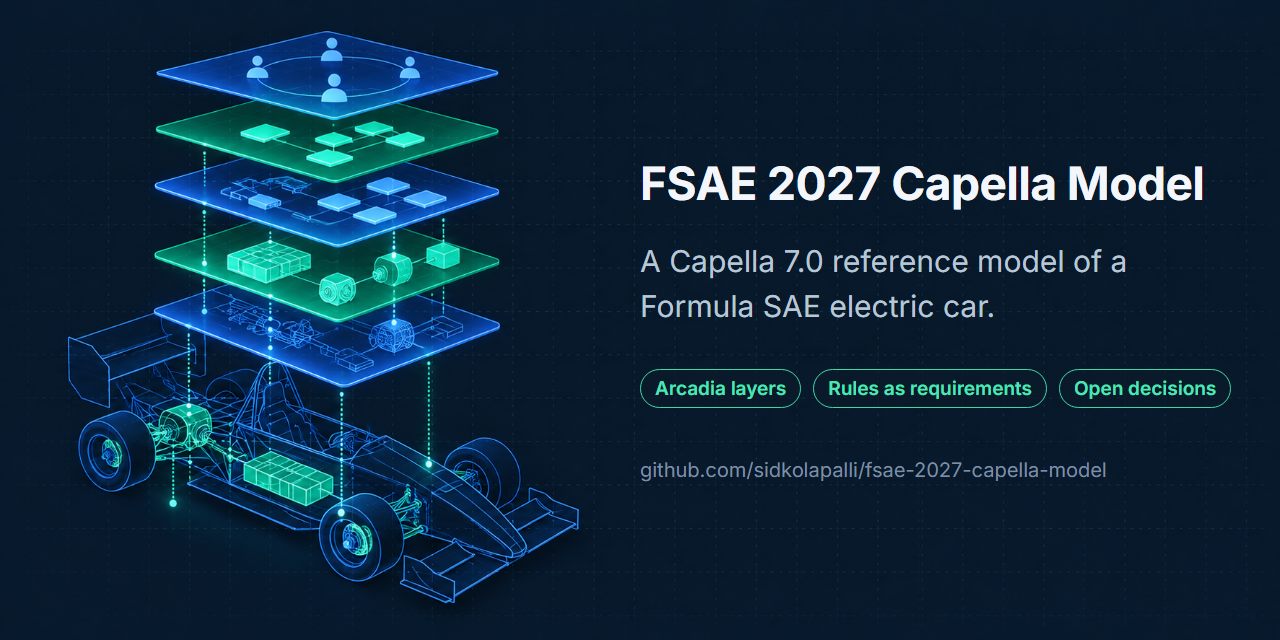
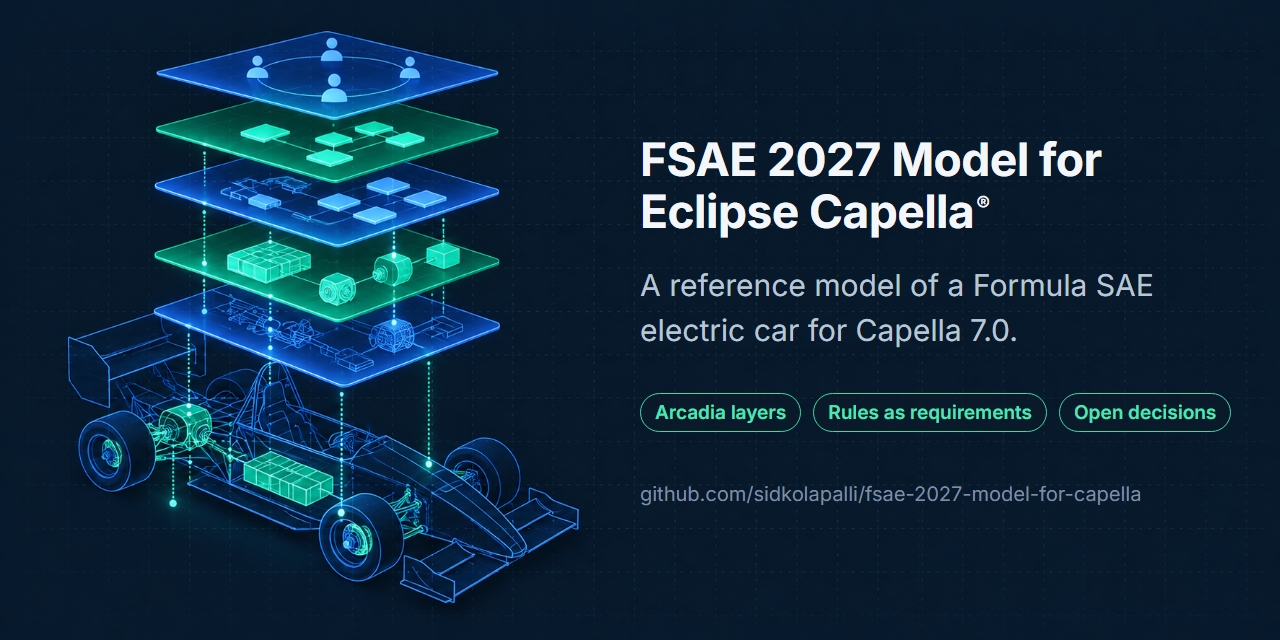
Rename to FSAE 2027 Model for Capella (Eclipse trademark policy) (#13)
## What and why

Follows the Eclipse Foundation Trademark Usage Policy (v1.1.1,
https://www.eclipse.org/legal/logo-guidelines/): an Eclipse project name
may not be part of a product name except as "<product> for <project>".

- The model is now **FSAE 2027 Model for Capella**; the toolkit is
**Agent Toolkit for Capella**.
- The repo is renamed to `fsae-2027-model-for-capella` (old URLs
redirect); the toolkit repo to `agent-toolkit-for-capella`. Links, the
clone URL, CITATION.cff and the security link are updated.
- Each page's first and most prominent mention reads "Eclipse Capella®",
including the generated submission pages (generator updated with them).
- The README has a Trademarks section with the Eclipse attribution
sentence, the SAE trademark note and a not-affiliated line.
- The social preview image shows the new name and URL.

No model files change.

## Evidence

- [ ] Changed the scripts in `acceptance/`, not only the model (only the
report generator's legend text; `acceptance/submissions` unit tests
pass, 20 OK)
- [ ] Verifiers and save/reopen check (`90`) pass; native validation
compared with the previous export (`91`) (not applicable: no model
change)
- [x] No rulebook text added
- [ ] Model files changed: `model/SHA256SUMS` regenerated, README
Versions section updated, and the change noted for the next version tag
(not applicable: no model files changed)

Changed region(s): [[0.5, 0.2188, 0.9375, 0.5312], [0.5, 0.5938, 0.9688, 0.6562], [0.5, 0.7188, 0.9062, 0.7812]]

diff --git a/acceptance/submissions/make_reports.py b/acceptance/submissions/make_reports.py
@@ -27,7 +27,7 @@ LEGEND = [
     "element or obligation stands for the item but holds no team value yet; items that only restate a rule value "
     "are `partial` too. `absent` means the model has nothing for the item, or cannot hold it (photos, raw test "
     "data, receipts, records).",
-    "- **Source**: where the value comes from: `model` (this Capella model), `cad` (CAD and drawings), `analysis` "
+    "- **Source**: where the value comes from: `model` (this Eclipse Capella® model), `cad` (CAD and drawings), `analysis` "
     "(calculations), `test` (physical tests), `supplier` (datasheets and purchase records), `admin` (team "
     "administration).",
     "- **Status**: the team's progress. Conditional rows (aluminum, composite, monocoque, custom IA, digital "

diff --git a/README.md b/README.md
@@ -1,11 +1,11 @@
 <div align="center">
 
-# FSAE 2027 Capella model
+# FSAE 2027 Model for Eclipse Capella®
 
 A Capella 7.0 reference model of a Formula SAE 2027 electric car: rules as requirements, a candidate
 architecture across all five Arcadia perspectives, and the open decisions left to make.
 
-<a href="https://github.com/sidkolapalli/fsae-2027-capella-model/actions/workflows/test.yml"><img alt="CI" src="https://github.com/sidkolapalli/fsae-2027-capella-model/actions/workflows/test.yml/badge.svg"></a>
+<a href="https://github.com/sidkolapalli/fsae-2027-model-for-capella/actions/workflows/test.yml"><img alt="CI" src="https://github.com/sidkolapalli/fsae-2027-model-for-capella/actions/workflows/test.yml/badge.svg"></a>
 <a href="https://eclipse.dev/capella/"><img alt="Capella 7.0" src="https://img.shields.io/badge/Capella-7.0-blue"></a>
 <a href="https://github.com/eclipse-capella/capella-requirements-vp/releases/tag/v0.14.0"><img alt="Requirements Viewpoint 0.14.0" src="https://img.shields.io/badge/Requirements%20Viewpoint-0.14.0-blue"></a>
 <a href="LICENSE-CC-BY-4.0"><img alt="Model licence CC BY 4.0" src="https://img.shields.io/badge/model-CC%20BY%204.0-green"></a>
@@ -28,7 +28,7 @@ architecture across all five Arcadia perspectives, and the open decisions left t
 A [Capella](https://eclipse.dev/capella/) 7.0 model of a Formula SAE 2027 electric car, built with the Arcadia
 method (a way to describe a system in layers, from what its users need down to its parts) from the public 2027
 rulebook, and the scripts that built it. It is also the benchmark model of the
-[Capella Agent Toolkit](https://github.com/sidkolapalli/capella-agent-toolkit)'s evaluation harness.
+[Agent Toolkit for Capella](https://github.com/sidkolapalli/agent-toolkit-for-capella)'s evaluation harness.
 
 It is meant as a reference platform and a head start. A Formula SAE team can use it as a guideline that mimics a
 real vehicle development platform: rules turned into requirements, an architecture across all perspectives,
@@ -151,12 +151,12 @@ All twelve diagrams, with what each shows, are in [docs/DIAGRAMS.md](docs/DIAGRA
 
 ### Learn it faster: ask an AI agent
 
-With the [Capella Agent Toolkit](https://github.com/sidkolapalli/capella-agent-toolkit), an AI agent such as
+With the [Agent Toolkit for Capella](https://github.com/sidkolapalli/agent-toolkit-for-capella), an AI agent such as
 Claude Code, Codex, Cursor, GitHub Copilot or Gemini CLI can read the model open in Capella and answer questions
 about it. It changes nothing unless you approve the exact edit in Capella. The agent can be wrong: check each answer
 against the model. To find an element name it cites, type the name into the filter box at the top of the Project
 Explorer. The toolkit's
-[install guide](https://github.com/sidkolapalli/capella-agent-toolkit/blob/main/docs/INSTALL.md) shows how to
+[install guide](https://github.com/sidkolapalli/agent-toolkit-for-capella/blob/main/docs/INSTALL.md) shows how to
 connect each agent, and [LEARN-WITH-AI.md](docs/LEARN-WITH-AI.md) has the setup steps and questions to ask.
 
 ## Open the model
@@ -166,7 +166,7 @@ connect each agent, and [LEARN-WITH-AI.md](docs/LEARN-WITH-AI.md) has the setup 
    for Capella 7. The release page offers a dropins archive and an update site; the update site needs three
    dependency update sites added first, which the page lists.
 2. Clone this repository, or download it from the
-   [releases page](https://github.com/sidkolapalli/fsae-2027-capella-model/releases). The latest release suits
+   [releases page](https://github.com/sidkolapalli/fsae-2027-model-for-capella/releases). The latest release suits
    exploring the model; [Versions](#versions) lists the earlier releases.
 3. Import [`model/FSAE-2027-Electric-Arcadia`](model/FSAE-2027-Electric-Arcadia) into your workspace as an
    existing project, with **File > Import...** and the existing-project import under **General**. Choose to copy
@@ -181,8 +181,8 @@ connect each agent, and [LEARN-WITH-AI.md](docs/LEARN-WITH-AI.md) has the setup 
 
 | Tag | What it holds | Use it for |
 |---|---|---|
[1 lines of base64/hex data omitted]
-| [`v1.1.0`](https://github.com/sidkolapalli/fsae-2027-capella-model/tree/v1.1.0) | The same files as plain project files, byte-identical to the archive contents | The original benchmark version, without unzipping |
[1 lines of base64/hex data omitted]
+| [`v1.1.0`](https://github.com/sidkolapalli/fsae-2027-model-for-capella/tree/v1.1.0) | The same files as plain project files, byte-identical to the archive contents | The original benchmark version, without unzipping |
 | `v1.2.0` | The same semantic model, with all 12 diagrams laid out | Reading and extending the model |
 
 The semantic model is the same in all three: the `.capella` file's SHA-256 is
@@ -194,8 +194,8 @@ the benchmark, so the release that ships it gets a new version tag.
 
 ## How it was built
 
-The scripts in [`acceptance/`](acceptance) built the model in a disposable Capella project through the Capella
-Agent Toolkit plug-in's dev server, in the order [`acceptance/README.md`](acceptance/README.md) gives.
+The scripts in [`acceptance/`](acceptance) built the model in a disposable Capella project through the Agent
+Toolkit for Capella plug-in's dev server, in the order [`acceptance/README.md`](acceptance/README.md) gives.
 [`acceptance/rules`](acceptance/rules) pins the rule inventory and [`acceptance/safety`](acceptance/safety) holds
 the three slices, each with its own README. [`acceptance/submissions`](acceptance/submissions) adds the
 competition-submission layer on top of them. The v1.2.0 diagram layout was applied afterwards and no script
@@ -204,9 +204,9 @@ reproduces it; [docs/DIAGRAMS.md](docs/DIAGRAMS.md#about-the-layout-and-the-imag
 ## Using it as a benchmark
 
 The task sets, harness and grader live in the toolkit's
-[`test-models/evals`](https://github.com/sidkolapalli/capella-agent-toolkit/tree/develop/test-models/evals).
+[`test-models/evals`](https://github.com/sidkolapalli/agent-toolkit-for-capella/tree/develop/test-models/evals).
 
-1. Clone this repository next to the toolkit and keep the folder name `fsae-2027-capella-model`. Or set
+1. Clone this repository next to the toolkit and keep the folder name `fsae-2027-model-for-capella`. Or set
    `EVAL_MODEL` to its `model/FSAE-2027-Electric-Arcadia` folder.
 2. To reproduce results recorded against the original benchmark version, check out `v1.1.0` (`git checkout v1.1.0`). The default branch
    has the re-laid-out diagrams of `v1.2.0`.
@@ -218,10 +218,14 @@ The task sets, harness and grader live in the toolkit's
 | The model in `model/` and the JSON data in `acceptance/` | [CC BY 4.0](LICENSE-CC-BY-4.0) |
 | The scripts in `acceptance/` (`.groovy`, `.py`) | [EPL-2.0](LICENSE) |
 
-To attribute the model, cite "FSAE 2027 Capella model, https://github.com/sidkolapalli/fsae-2027-capella-model".
+To attribute the model, cite "FSAE 2027 Model for Capella, https://github.com/sidkolapalli/fsae-2027-model-for-capella".
 
 The rule identifiers, page numbers and headings come from the Formula SAE Rules 2027, which are copyright SAE
 International. They are included only to trace each requirement to the rulebook and are not covered by the
 licences above; the rule text itself is not included, and the safety obligations are paraphrased. Get the rulebook
-from [fsaeonline.com](https://www.fsaeonline.com). This project is not affiliated with or endorsed by SAE
-International; Formula SAE is a trademark of SAE International.
+from [fsaeonline.com](https://www.fsaeonline.com).
+
+## Trademarks
+
+Eclipse, Eclipse Capella and Capella are trademarks of Eclipse Foundation AISBL. Formula SAE is a trademark of SAE
+International. This project is not affiliated with or endorsed by the Eclipse Foundation or SAE International.

diff --git a/docs/MODEL-GUIDE.md b/docs/MODEL-GUIDE.md
@@ -1,10 +1,10 @@
 # Model guide
 
-This guide describes what is in the FSAE 2027 Capella model, how it is organized, and how to use it. It is for
-systems engineers who are new to this model and possibly new to Capella. To install Capella and open the model,
-follow [GETTING-STARTED.md](GETTING-STARTED.md). [CONTRIBUTING.md](../CONTRIBUTING.md) covers changes proposed back to this
-repository, which are built by scripts. A team developing its own fork edits the model in Capella, as
-[Using the model as a development platform](#using-the-model-as-a-development-platform) describes.
+This guide describes what is in the FSAE 2027 Model for Eclipse Capella®, how it is organized, and how to use it.
+It is for systems engineers who are new to this model and possibly new to Capella. To install Capella and open the
+model, follow [GETTING-STARTED.md](GETTING-STARTED.md). [CONTRIBUTING.md](../CONTRIBUTING.md) covers changes
+proposed back to this repository, which are built by scripts. A team developing its own fork edits the model in
+Capella, as [Using the model as a development platform](#using-the-model-as-a-development-platform) describes.
 
 The model is a reference platform and a head start, not a finished car. It turns the rulebook into native
 requirements, lays out a candidate architecture across all five Arcadia perspectives, keeps the major design
@@ -307,7 +307,7 @@ work in order. Each step names the model elements it changes.
    `verification_status=passed` on the requirement.
 6. **Run validation** on the model root, as [GETTING-STARTED.md](GETTING-STARTED.md#7-run-validation) describes. Compare the result with the baseline
    of zero errors and 517 warnings; that baseline applies only to validation of the whole model root with the
-   default rule categories. The Groovy verifiers in `acceptance/` need the Capella Agent Toolkit dev server;
+   default rule categories. The Groovy verifiers in `acceptance/` need the Agent Toolkit for Capella dev server;
    [CONTRIBUTING.md](../CONTRIBUTING.md) lists them. Save, close and reopen the model, then validate again.
 
    If you imported the project with copy-into-workspace, as GETTING-STARTED.md says, your edits are saved in the workspace
@@ -321,14 +321,14 @@ decisions and justified validation warnings, are not met.
 
 ## Using the model as a benchmark for agent skills
 
-The model is also the benchmark of the [Capella Agent Toolkit](https://github.com/sidkolapalli/capella-agent-toolkit).
+The model is also the benchmark of the [Agent Toolkit for Capella](https://github.com/sidkolapalli/agent-toolkit-for-capella).
 The open decisions, TBD items and unmodeled records are realistic engineering tasks. Giving them to an AI agent shows
 where its modeling skills hold and where they fail: tracing a requirement to the right element, decomposing a
 function the Arcadia way, keeping realizations consistent across perspectives, and refusing to invent a value the
 model marks as unresolved.
 
 The task sets, harness and grader are in the toolkit's
-[`test-models/evals`](https://github.com/sidkolapalli/capella-agent-toolkit/tree/develop/test-models/evals). To set it
+[`test-models/evals`](https://github.com/sidkolapalli/agent-toolkit-for-capella/tree/develop/test-models/evals). To set it
 up, see [Using it as a benchmark](../README.md#using-it-as-a-benchmark) in the README. The harness starts Capella with
 `-Xms512m -Xmx3g -Xss4m` for this model. A change to the model changes the benchmark, so results stay tied to the
 version tag they used (see [Versions](../README.md#versions)).

diff --git a/docs/LEARN-WITH-AI.md b/docs/LEARN-WITH-AI.md
@@ -1,7 +1,7 @@
 # Learn the model with an AI agent
 
-This page shows how to use an AI agent to learn the FSAE 2027 Capella model by asking it questions. It is for
-Formula SAE students, including those who are new to Capella and to MBSE (model-based systems engineering).
+This page shows how to use an AI agent to learn the FSAE 2027 Model for Eclipse Capella® by asking it questions. It
+is for Formula SAE students, including those who are new to Capella and to MBSE (model-based systems engineering).
 
 ## Why use an agent
 
@@ -21,8 +21,8 @@ Two things to keep in mind from the start:
 | Item | Where to get it |
 |---|---|
 | Capella 7.0, Requirements Viewpoint 0.14.0 and this model, imported and open | [GETTING-STARTED.md](GETTING-STARTED.md), steps 1 to 5 |
-| The Capella Agent Toolkit plug-in, installed in Capella | The toolkit [README quick start](https://github.com/sidkolapalli/capella-agent-toolkit#quick-start) |
-| An AI agent that supports MCP, such as Claude Code, Codex, Cursor, GitHub Copilot or Gemini CLI | The toolkit [install guide](https://github.com/sidkolapalli/capella-agent-toolkit/blob/main/docs/INSTALL.md), one section per agent |
+| The Agent Toolkit for Capella plug-in, installed in Capella | The toolkit [README quick start](https://github.com/sidkolapalli/agent-toolkit-for-capella#quick-start) |
+| An AI agent that supports MCP, such as Claude Code, Codex, Cursor, GitHub Copilot or Gemini CLI | The toolkit [install guide](https://github.com/sidkolapalli/agent-toolkit-for-capella/blob/main/docs/INSTALL.md), one section per agent |
 | An account for that agent. Most need a sign-in, and many need a subscription or an API key; some have free or student tiers | The agent's own website. Check this before you start |
 
 The plug-in is built from source, which needs a Java 17 JDK, Maven and Python 3, as the quick start describes.
@@ -35,7 +35,7 @@ agent sends to its own model provider.
 
 0. Set a fixed token before you open Capella. The token is a password that Capella's server checks on every
    request. Follow the
-   [Set a fixed MCP token](https://github.com/sidkolapalli/capella-agent-toolkit/blob/main/docs/INSTALL.md#set-a-fixed-mcp-token)
+   [Set a fixed MCP token](https://github.com/sidkolapalli/agent-toolkit-for-capella/blob/main/docs/INSTALL.md#set-a-fixed-mcp-token)
    section of the toolkit install guide, so the connection still works after you restart Capella. Then close
    Capella and your terminal, and reopen both: programs that are already running do not see the new token.
 1. Open the model in Capella, as [GETTING-STARTED.md](GETTING-STARTED.md#5-import-the-project-and-open-it)
@@ -43,7 +43,7 @@ agent sends to its own model provider.
 2. Start the server: **Window > Show View > Other > AI Dev Server > Start**. It listens on port 8765, on your
    computer only.
 3. Connect your agent and install the toolkit's skills, following the section for your agent in
-   [INSTALL.md](https://github.com/sidkolapalli/capella-agent-toolkit/blob/main/docs/INSTALL.md). A skill is a
+   [INSTALL.md](https://github.com/sidkolapalli/agent-toolkit-for-capella/blob/main/docs/INSTALL.md). A skill is a
    packaged set of instructions the agent loads when you run it by name.
 4. Run the `capella-setup` skill to check the connection: `/capella-setup` in most agents, `$capella-setup` in
    Codex. It is done when the agent names the open project, `FSAE-2027-Electric-Arcadia`, and its layers.

diff --git a/docs/GETTING-STARTED.md b/docs/GETTING-STARTED.md
@@ -1,7 +1,8 @@
 # Getting started
 
-This guide takes you from nothing to exploring the FSAE 2027 Capella model. It assumes you know systems
-engineering but may be new to Capella. For how the model is organized, see [MODEL-GUIDE.md](MODEL-GUIDE.md).
+This guide takes you from nothing to exploring the FSAE 2027 Model for Eclipse Capella®. It assumes you know
+systems engineering but may be new to Capella. For how the model is organized, see
+[MODEL-GUIDE.md](MODEL-GUIDE.md).
 
 ## What this model is, and what it is not
 
@@ -17,8 +18,8 @@ It is not a finished or compliant car:
 - many records are still marked as needing review or as not modeled.
 
 The open decisions and unfinished items are also realistic tasks. The
-[Capella Agent Toolkit](https://github.com/sidkolapalli/capella-agent-toolkit) uses them to find gaps in AI agent
-skills.
+[Agent Toolkit for Capella](https://github.com/sidkolapalli/agent-toolkit-for-capella) uses them to find gaps in AI
+agent skills.
 
 The model carries rule identifiers, page numbers and headings from the Formula SAE Rules 2027, but not the rule
 text. Get the rulebook from [fsaeonline.com](https://www.fsaeonline.com). This project is not affiliated with or
@@ -119,7 +120,7 @@ You do not need to activate the viewpoint in this model. It is already reference
 
 | You want to | Use |
 |---|---|
-| Explore the model or start from it | The latest release on the [releases page](https://github.com/sidkolapalli/fsae-2027-capella-model/releases). Later releases lay out the diagrams; the semantic `.capella` file is the same as in v1.1.0. |
+| Explore the model or start from it | The latest release on the [releases page](https://github.com/sidkolapalli/fsae-2027-model-for-capella/releases). Later releases lay out the diagrams; the semantic `.capella` file is the same as in v1.1.0. |
 | Reproduce benchmark results recorded against the original version | `v1.0.0` (stored as `model/FSAE-2027-Electric-Arcadia.zip`) or `v1.1.0` (the same model as plain files). |
 
 ### Download it
@@ -127,8 +128,8 @@ You do not need to activate the viewpoint in this model. It is already reference
 With Git:
 
 ```bash
-git clone https://github.com/sidkolapalli/fsae-2027-capella-model.git
-cd fsae-2027-capella-model
+git clone https://github.com/sidkolapalli/fsae-2027-model-for-capella.git
+cd fsae-2027-model-for-capella
 git checkout <tag>   # for example the latest tag on the releases page, or v1.1.0
 ```
 
@@ -296,8 +297,8 @@ or the design is verified.
 
 ## 8. Use it with an AI agent
 
-The [Capella Agent Toolkit](https://github.com/sidkolapalli/capella-agent-toolkit) is a Capella 7 plug-in with an
-MCP server. Any MCP client, such as Claude Code or Codex, can then read and change the model open in Capella, and a
+The [Agent Toolkit for Capella](https://github.com/sidkolapalli/agent-toolkit-for-capella) is a Capella 7 plug-in with
+an MCP server. Any MCP client, such as Claude Code or Codex, can then read and change the model open in Capella, and a
 person reviews every edit in Capella before it runs. The toolkit also has agent skills and the evaluation harness
 that uses this model. To learn the model by asking an agent questions, see [LEARN-WITH-AI.md](LEARN-WITH-AI.md).
 To set up the harness, see

diff --git a/acceptance/safety/driver-demand/README.md b/acceptance/safety/driver-demand/README.md
@@ -13,7 +13,7 @@ The scripts create a design candidate, not tested control software or a complian
 
 The draft adds 64 functions across OA/SA/LA/PA, 88 functional exchanges, seven child logical/physical partitions and seven HWCI items. Three explicit powertrain boundary functions distinguish speed observation, independent current observation and execution of the permitted motor command. Every DD exchange uses leaf endpoints and native exchange/port realization traces across perspectives. Physical behavior is explicitly deployed onto equipment using native PartDeploymentLinks. Separate spring, APPS channel, inspection connector, brake sensing/bias, BSPD sensor and inspection hardware nodes identify concrete design obligations. EPBS describes candidate items; no supplier, part number, rating or validated implementation is invented.
 
-APPS/BSE faults and brake/accelerator conflict feed motor-power inhibition directly. The BSPD is a separate nonprogrammable hardware candidate that feeds the shutdown slice's independent trip input. The shutdown slice's motor-removal function also feeds the common power-inhibit gate. Five native StateMachines separately describe APPS timing, BSE timing, the brake-conflict latch, and logical/physical BSPD hardware behavior. Each machine owns exactly one initial state, matching Capella's native validation rule. Their text guards are engineering abstractions; they do not execute a controller. Global shutdown latching/manual reset is owned by the EV.8 shutdown slice.
+APPS/BSE faults and brake/accelerator conflict feed motor-power inhibition directly. The BSPD is a separate nonprogrammable hardware candidate that feeds the shutdown slice's independent trip input. The shutdown slice's motor-removal function also feeds the common power-inhibit gate. Five native StateMachines separately describe APPS timing, BSE timing, the brake-conflict latch, and logical/physical BSPD hardware behavior. Each machine owns exactly one initial state, matching the native validation rule of Eclipse Capella®. Their text guards are engineering abstractions; they do not execute a controller. Global shutdown latching/manual reset is owned by the EV.8 shutdown slice.
 
 Function availability is persisted through native `AbstractFunction.availableInStates`. The brake-conflict, APPS and BSE monitors remain available throughout their corresponding regions; the BSPD monitor remains active after a trip, and its trip-output function is available only in the trip-requested state. The derived, read-only `State.availableAbstractFunctions` feature is never mutated. The verifier checks the stored reverse links and their exact state scope.
 

diff --git a/docs/submissions/cost.md b/docs/submissions/cost.md
@@ -15,7 +15,7 @@ The Cost Report is the team's priced bill of materials for the whole prototype. 
 How to read the tables:
 
 - **Model**: `present` means the candidate model already holds the content (an architecture element, state logic or a diagram) with nothing open; it does not mean the submitted value is final. `partial` means a model element or obligation stands for the item but holds no team value yet; items that only restate a rule value are `partial` too. `absent` means the model has nothing for the item, or cannot hold it (photos, raw test data, receipts, records).
-- **Source**: where the value comes from: `model` (this Capella model), `cad` (CAD and drawings), `analysis` (calculations), `test` (physical tests), `supplier` (datasheets and purchase records), `admin` (team administration).
+- **Source**: where the value comes from: `model` (this Eclipse Capella® model), `cad` (CAD and drawings), `analysis` (calculations), `test` (physical tests), `supplier` (datasheets and purchase records), `admin` (team administration).
 - **Status**: the team's progress. Conditional rows (aluminum, composite, monocoque, custom IA, digital APPS/BSE) count until you mark them `not_applicable` through the status CSV, once DEC-CHASSIS or the IA route is chosen ([how to update status](../../acceptance/submissions/README.md#updating-status)).
 - **Blocking**: ⛔ marks a decision whose constraint name still ends in UNRESOLVED. [Open design decisions](../MODEL-GUIDE.md#open-design-decisions) lists them, and step 2 of [Using the model as a development platform](../MODEL-GUIDE.md#using-the-model-as-a-development-platform) says how to record and close one.
 - **Note** says why an item is partial or absent, which rows are conditional and what is still missing. **Evidence** is the drawing, file, photo or test id the team records.

diff --git a/docs/submissions/design.md b/docs/submissions/design.md
@@ -15,7 +15,7 @@ The Design Event (150 of the 325 static points, S.1:p003, S.4.10.1) needs three 
 How to read the tables:
 
 - **Model**: `present` means the candidate model already holds the content (an architecture element, state logic or a diagram) with nothing open; it does not mean the submitted value is final. `partial` means a model element or obligation stands for the item but holds no team value yet; items that only restate a rule value are `partial` too. `absent` means the model has nothing for the item, or cannot hold it (photos, raw test data, receipts, records).
-- **Source**: where the value comes from: `model` (this Capella model), `cad` (CAD and drawings), `analysis` (calculations), `test` (physical tests), `supplier` (datasheets and purchase records), `admin` (team administration).
+- **Source**: where the value comes from: `model` (this Eclipse Capella® model), `cad` (CAD and drawings), `analysis` (calculations), `test` (physical tests), `supplier` (datasheets and purchase records), `admin` (team administration).
 - **Status**: the team's progress. Conditional rows (aluminum, composite, monocoque, custom IA, digital APPS/BSE) count until you mark them `not_applicable` through the status CSV, once DEC-CHASSIS or the IA route is chosen ([how to update status](../../acceptance/submissions/README.md#updating-status)).
 - **Blocking**: ⛔ marks a decision whose constraint name still ends in UNRESOLVED. [Open design decisions](../MODEL-GUIDE.md#open-design-decisions) lists them, and step 2 of [Using the model as a development platform](../MODEL-GUIDE.md#using-the-model-as-a-development-platform) says how to record and close one.
 - **Note** says why an item is partial or absent, which rows are conditional and what is still missing. **Evidence** is the drawing, file, photo or test id the team records.

diff --git a/docs/submissions/esf.md b/docs/submissions/esf.md
@@ -15,7 +15,7 @@ The ESF is the EV-only technical document in which the team describes the comple
 How to read the tables:
 
 - **Model**: `present` means the candidate model already holds the content (an architecture element, state logic or a diagram) with nothing open; it does not mean the submitted value is final. `partial` means a model element or obligation stands for the item but holds no team value yet; items that only restate a rule value are `partial` too. `absent` means the model has nothing for the item, or cannot hold it (photos, raw test data, receipts, records).
-- **Source**: where the value comes from: `model` (this Capella model), `cad` (CAD and drawings), `analysis` (calculations), `test` (physical tests), `supplier` (datasheets and purchase records), `admin` (team administration).
+- **Source**: where the value comes from: `model` (this Eclipse Capella® model), `cad` (CAD and drawings), `analysis` (calculations), `test` (physical tests), `supplier` (datasheets and purchase records), `admin` (team administration).
 - **Status**: the team's progress. Conditional rows (aluminum, composite, monocoque, custom IA, digital APPS/BSE) count until you mark them `not_applicable` through the status CSV, once DEC-CHASSIS or the IA route is chosen ([how to update status](../../acceptance/submissions/README.md#updating-status)).
 - **Blocking**: ⛔ marks a decision whose constraint name still ends in UNRESOLVED. [Open design decisions](../MODEL-GUIDE.md#open-design-decisions) lists them, and step 2 of [Using the model as a development platform](../MODEL-GUIDE.md#using-the-model-as-a-development-platform) says how to record and close one.
 - **Note** says why an item is partial or absent, which rows are conditional and what is still missing. **Evidence** is the drawing, file, photo or test id the team records.

diff --git a/docs/submissions/general.md b/docs/submissions/general.md
@@ -15,7 +15,7 @@ This is the cross-cutting layer that applies to every pre-competition document, 
 How to read the tables:
 
 - **Model**: `present` means the candidate model already holds the content (an architecture element, state logic or a diagram) with nothing open; it does not mean the submitted value is final. `partial` means a model element or obligation stands for the item but holds no team value yet; items that only restate a rule value are `partial` too. `absent` means the model has nothing for the item, or cannot hold it (photos, raw test data, receipts, records).
-- **Source**: where the value comes from: `model` (this Capella model), `cad` (CAD and drawings), `analysis` (calculations), `test` (physical tests), `supplier` (datasheets and purchase records), `admin` (team administration).
+- **Source**: where the value comes from: `model` (this Eclipse Capella® model), `cad` (CAD and drawings), `analysis` (calculations), `test` (physical tests), `supplier` (datasheets and purchase records), `admin` (team administration).
 - **Status**: the team's progress. Conditional rows (aluminum, composite, monocoque, custom IA, digital APPS/BSE) count until you mark them `not_applicable` through the status CSV, once DEC-CHASSIS or the IA route is chosen ([how to update status](../../acceptance/submissions/README.md#updating-status)).
 - **Blocking**: ⛔ marks a decision whose constraint name still ends in UNRESOLVED. [Open design decisions](../MODEL-GUIDE.md#open-design-decisions) lists them, and step 2 of [Using the model as a development platform](../MODEL-GUIDE.md#using-the-model-as-a-development-platform) says how to record and close one.
 - **Note** says why an item is partial or absent, which rows are conditional and what is still missing. **Evidence** is the drawing, file, photo or test id the team records.

diff --git a/docs/submissions/iad.md b/docs/submissions/iad.md
@@ -15,7 +15,7 @@ The IAD is not a standalone upload: F.8.8.1 makes it part of the SES. The SES is
 How to read the tables:
 
 - **Model**: `present` means the candidate model already holds the content (an architecture element, state logic or a diagram) with nothing open; it does not mean the submitted value is final. `partial` means a model element or obligation stands for the item but holds no team value yet; items that only restate a rule value are `partial` too. `absent` means the model has nothing for the item, or cannot hold it (photos, raw test data, receipts, records).
-- **Source**: where the value comes from: `model` (this Capella model), `cad` (CAD and drawings), `analysis` (calculations), `test` (physical tests), `supplier` (datasheets and purchase records), `admin` (team administration).
+- **Source**: where the value comes from: `model` (this Eclipse Capella® model), `cad` (CAD and drawings), `analysis` (calculations), `test` (physical tests), `supplier` (datasheets and purchase records), `admin` (team administration).
 - **Status**: the team's progress. Conditional rows (aluminum, composite, monocoque, custom IA, digital APPS/BSE) count until you mark them `not_applicable` through the status CSV, once DEC-CHASSIS or the IA route is chosen ([how to update status](../../acceptance/submissions/README.md#updating-status)).
 - **Blocking**: ⛔ marks a decision whose constraint name still ends in UNRESOLVED. [Open design decisions](../MODEL-GUIDE.md#open-design-decisions) lists them, and step 2 of [Using the model as a development platform](../MODEL-GUIDE.md#using-the-model-as-a-development-platform) says how to record and close one.
 - **Note** says why an item is partial or absent, which rows are conditional and what is still missing. **Evidence** is the drawing, file, photo or test id the team records.

diff --git a/docs/submissions/presentation.md b/docs/submissions/presentation.md
@@ -15,7 +15,7 @@ The Presentation Event is a 75-point static event (S.1:p001). The team pitches a
 How to read the tables:
 
 - **Model**: `present` means the candidate model already holds the content (an architecture element, state logic or a diagram) with nothing open; it does not mean the submitted value is final. `partial` means a model element or obligation stands for the item but holds no team value yet; items that only restate a rule value are `partial` too. `absent` means the model has nothing for the item, or cannot hold it (photos, raw test data, receipts, records).
-- **Source**: where the value comes from: `model` (this Capella model), `cad` (CAD and drawings), `analysis` (calculations), `test` (physical tests), `supplier` (datasheets and purchase records), `admin` (team administration).
+- **Source**: where the value comes from: `model` (this Eclipse Capella® model), `cad` (CAD and drawings), `analysis` (calculations), `test` (physical tests), `supplier` (datasheets and purchase records), `admin` (team administration).
 - **Status**: the team's progress. Conditional rows (aluminum, composite, monocoque, custom IA, digital APPS/BSE) count until you mark them `not_applicable` through the status CSV, once DEC-CHASSIS or the IA route is chosen ([how to update status](../../acceptance/submissions/README.md#updating-status)).
 - **Blocking**: ⛔ marks a decision whose constraint name still ends in UNRESOLVED. [Open design decisions](../MODEL-GUIDE.md#open-design-decisions) lists them, and step 2 of [Using the model as a development platform](../MODEL-GUIDE.md#using-the-model-as-a-development-platform) says how to record and close one.
 - **Note** says why an item is partial or absent, which rows are conditional and what is still missing. **Evidence** is the drawing, file, photo or test id the team records.
